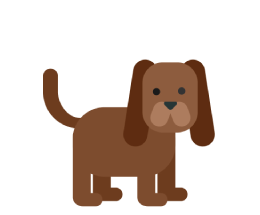
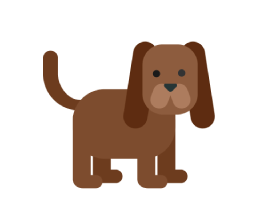
Add sounds and animals pictures + General styles

Changed region(s): [[0.1538, 0.1674, 0.8308, 0.6977], [0.2769, 0.7256, 0.7385, 0.9767]]

diff --git a/src/data/animals.js b/src/data/animals.js
@@ -1,45 +1,45 @@
 const Animals = [
   {
-    "id": 1,
-    "name": "Perro",
-    "color": "#222",
-    "sound": "dog.wav",
-    "image": "dog.png"
+    id: 1,
+    name: "Perro",
+    color: "#7d4c2e",
+    sound: "dog.wav",
+    image: "dog.png",
   },
   {
-    "id": 2,
-    "name": "Oso",
-    "color": "#222",
-    "sound": "bear.wav",
-    "image": "dog.png"
+    id: 2,
+    name: "Oso",
+    color: "#c28946",
+    sound: "bear.wav",
+    image: "bear.png"
   },
   {
-    "id": 3,
-    "name": "Caballo",
-    "color": "#222",
-    "sound": "horse.wav",
-    "image": "horse.png"
+    id: 3,
+    name: "Caballo",
+    color: "#cc9c7c",
+    sound: "horse.wav",
+    image: "horse.png"
   },
   {
-    "id": 4,
-    "name": "Pollito",
-    "color": "#222",
-    "sound": "chick.wav",
-    "image": "dog.png"
+    id: 4,
+    name: "Pollito",
+    color: "#f8c84a",
+    sound: "chick.wav",
+    image: "chick.png"
   },
   {
-    "id": 5,
-    "name": "Elefante",
-    "color": "#222",
-    "sound": "elephant.wav",
-    "image": "dog.png"
+    id: 5,
+    name: "Elefante",
+    color: "#a5aab0",
+    sound: "elephant.wav",
+    image: "elephant.png"
   },
   {
-    "id": 6,
-    "name": "Gato",
-    "color": "#222",
-    "sound": "cat.wav",
-    "image": "cat.png"
+    id: 6,
+    name: "Gato",
+    color: "#657575",
+    sound: "cat.wav",
+    image: "cat.png"
   }
 ];
 

diff --git a/src/components/SoundButton.jsx b/src/components/SoundButton.jsx
@@ -1,11 +1,39 @@
+import React, { useState, useEffect } from "react"
 import './SoundButton.css'
 
-export default function SoundButton({ animal }) { 
+export default function SoundButton({ animal }) {
+  const [active, setActive] = useState(false)
+
+  let audio = new Audio(`/sounds/${animal.sound}`)
+
+  const handleClick = () => {
+    setActive(!active)
+    playSound()
+  }
+
+  const playSound = () => {
+    audio.play()
+  }
+
+  useEffect(() => {
+    audio.addEventListener('ended', () => {
+      audio.currentTime = 0
+      setActive(false)
+    })
+    return () => {
+      audio.removeEventListener('ended', () => {
+        setActive(false)
+      })
+    };
+  }, [audio]);
+
   return (
     <>
-      <button className="sound-button">
-        <img src={`/pictures/${animal.image}`} />
-        { animal.name }
+      <button onClick={handleClick} className={`sound-button ${active ? 'active' : ''}`} disabled={active} >
+        <span className="sound-button_dot" style={{ background: animal.color }}></span>
+        <img src={`/pictures/${animal.image}`} className="sound-button_picture" />
+        {animal.name}
+        {active && <img src='/sound.png' className="sound-button_icon" />}
       </button>
     </>
   )

diff --git a/src/components/SoundButton.css b/src/components/SoundButton.css
@@ -1,5 +1,6 @@
 .sound-button {
-  width: 205px;
+  position: relative;
+  max-width: 205px;
   height: 184px;
   background-color: white;
   color: #222;
@@ -10,9 +11,36 @@
   align-items: center;
   flex-direction: column;
   row-gap: 10px;
+  outline: none !important;
+  border: 5px solid #ffffff;
+  -webkit-tap-highlight-color: transparent;
 }
 
-.sound-button img {
+.sound-button:hover {
+  border: none;
+}
+
+.sound-button.active {
+  border: 5px solid #ecc22d;
+}
+
+.sound-button_dot {
+  position: absolute;
+  top: 10px;
+  right: 10px;
+  width: 7px;
+  height: 7px;
+  border-radius: 7px;
+}
+
+.sound-button_picture {
   max-width: 100%;
   max-height: 116px;
+}
+
+.sound-button_icon {
+  position: absolute;
+  bottom: 14px;
+  right: 13px;
+  width: 26px;
 }

diff --git a/src/components/MainTitle.css b/src/components/MainTitle.css
@@ -1,0 +1,41 @@
+.main-title {
+  margin-bottom: 60px;
+  gap: 20px;
+  display: flex;
+  flex-direction: column;
+  align-items: center;
+  justify-content: center;
+}
+
+.main-title h1 {
+  font-size: 38px;
+  font-weight: bold;
+  text-shadow: 0px 5px 6px rgb(0 0 0 / 26%);
+  letter-spacing: 1px;
+  text-transform: uppercase;
+  margin: 0;
+  color: #aa5b02;
+}
+
+.main-title h1 span {
+  color: #612b25;
+}
+
+.main-title .logo {
+  filter: hue-rotate(68deg);
+  width: 64px;
+}
+
+@media (min-width: 768px) {
+  .main-title {
+    flex-direction: row;
+  }
+
+  .main-title h1 {
+    font-size: 50px;
+  }
+
+  .main-title .logo {
+    width: 100px;
+  }
+}

diff --git a/src/components/SoundBoard.jsx b/src/components/SoundBoard.jsx
@@ -1,15 +1,24 @@
+// import { useState } from 'react'
 import './SoundBoard.css'
 
 import SoundButton from './SoundButton'
 
 export default function SoundBoard({ animals }) { 
+  //const [isSounding, setIsSounding] = useState(false)
+
+  // const handleStatus = () => {
+  //   setIsSounding((prevIsSounding) => !prevIsSounding);
+  // };
+
   const listAnimals = animals.map(animal =>
     <SoundButton animal={animal} key={animal.id} />
   )
 
   return (
-    <ul className="sound-board">
-      {listAnimals}
-    </ul>
+    <>
+      <div className="sound-board">
+        {listAnimals}
+      </div>
+    </>
   )
 }

diff --git a/src/App.jsx b/src/App.jsx
@@ -2,11 +2,13 @@
 import SoundBoard from './components/SoundBoard'
 import Animals from './data/animals'
 import './App.css'
+import MainTitle from './components/MainTitle'
 
 function App() {
   return (
     <>
       <div>
+        <MainTitle firstWord="Animals" secondWord="Sounds" />
         <SoundBoard animals={ Animals } />
       </div>
     </>

diff --git a/src/components/MainTitle.jsx b/src/components/MainTitle.jsx
@@ -1,0 +1,12 @@
+import './MainTitle.css'
+
+export default function MainTitle({ firstWord, secondWord }) {
+  return (
+    <div className='main-title'>
+      <img src='/logo.png' className='logo' />
+      <h1>
+        {firstWord} <span>{ secondWord }</span>
+      </h1>
+    </div>
+  )
+}

diff --git a/src/components/SoundBoard.css b/src/components/SoundBoard.css
@@ -1,5 +1,12 @@
 .sound-board {
   display: grid;
-  gap: 40px;
-  grid-template-columns: repeat(3, 1fr);
+  gap: 20px;
+  grid-template-columns: repeat(2, 1fr);
+}
+
+@media (min-width: 768px) {
+  .sound-board {
+    gap: 40px;
+    grid-template-columns: repeat(3, 1fr);
+  }
 }

diff --git a/src/index.css b/src/index.css
@@ -5,7 +5,7 @@
 
   color-scheme: light dark;
   color: rgba(255, 255, 255, 0.87);
-  background-color: #47b4ff;
+  background-color: #edd8bc;
 
   font-synthesis: none;
   text-rendering: optimizeLegibility;
